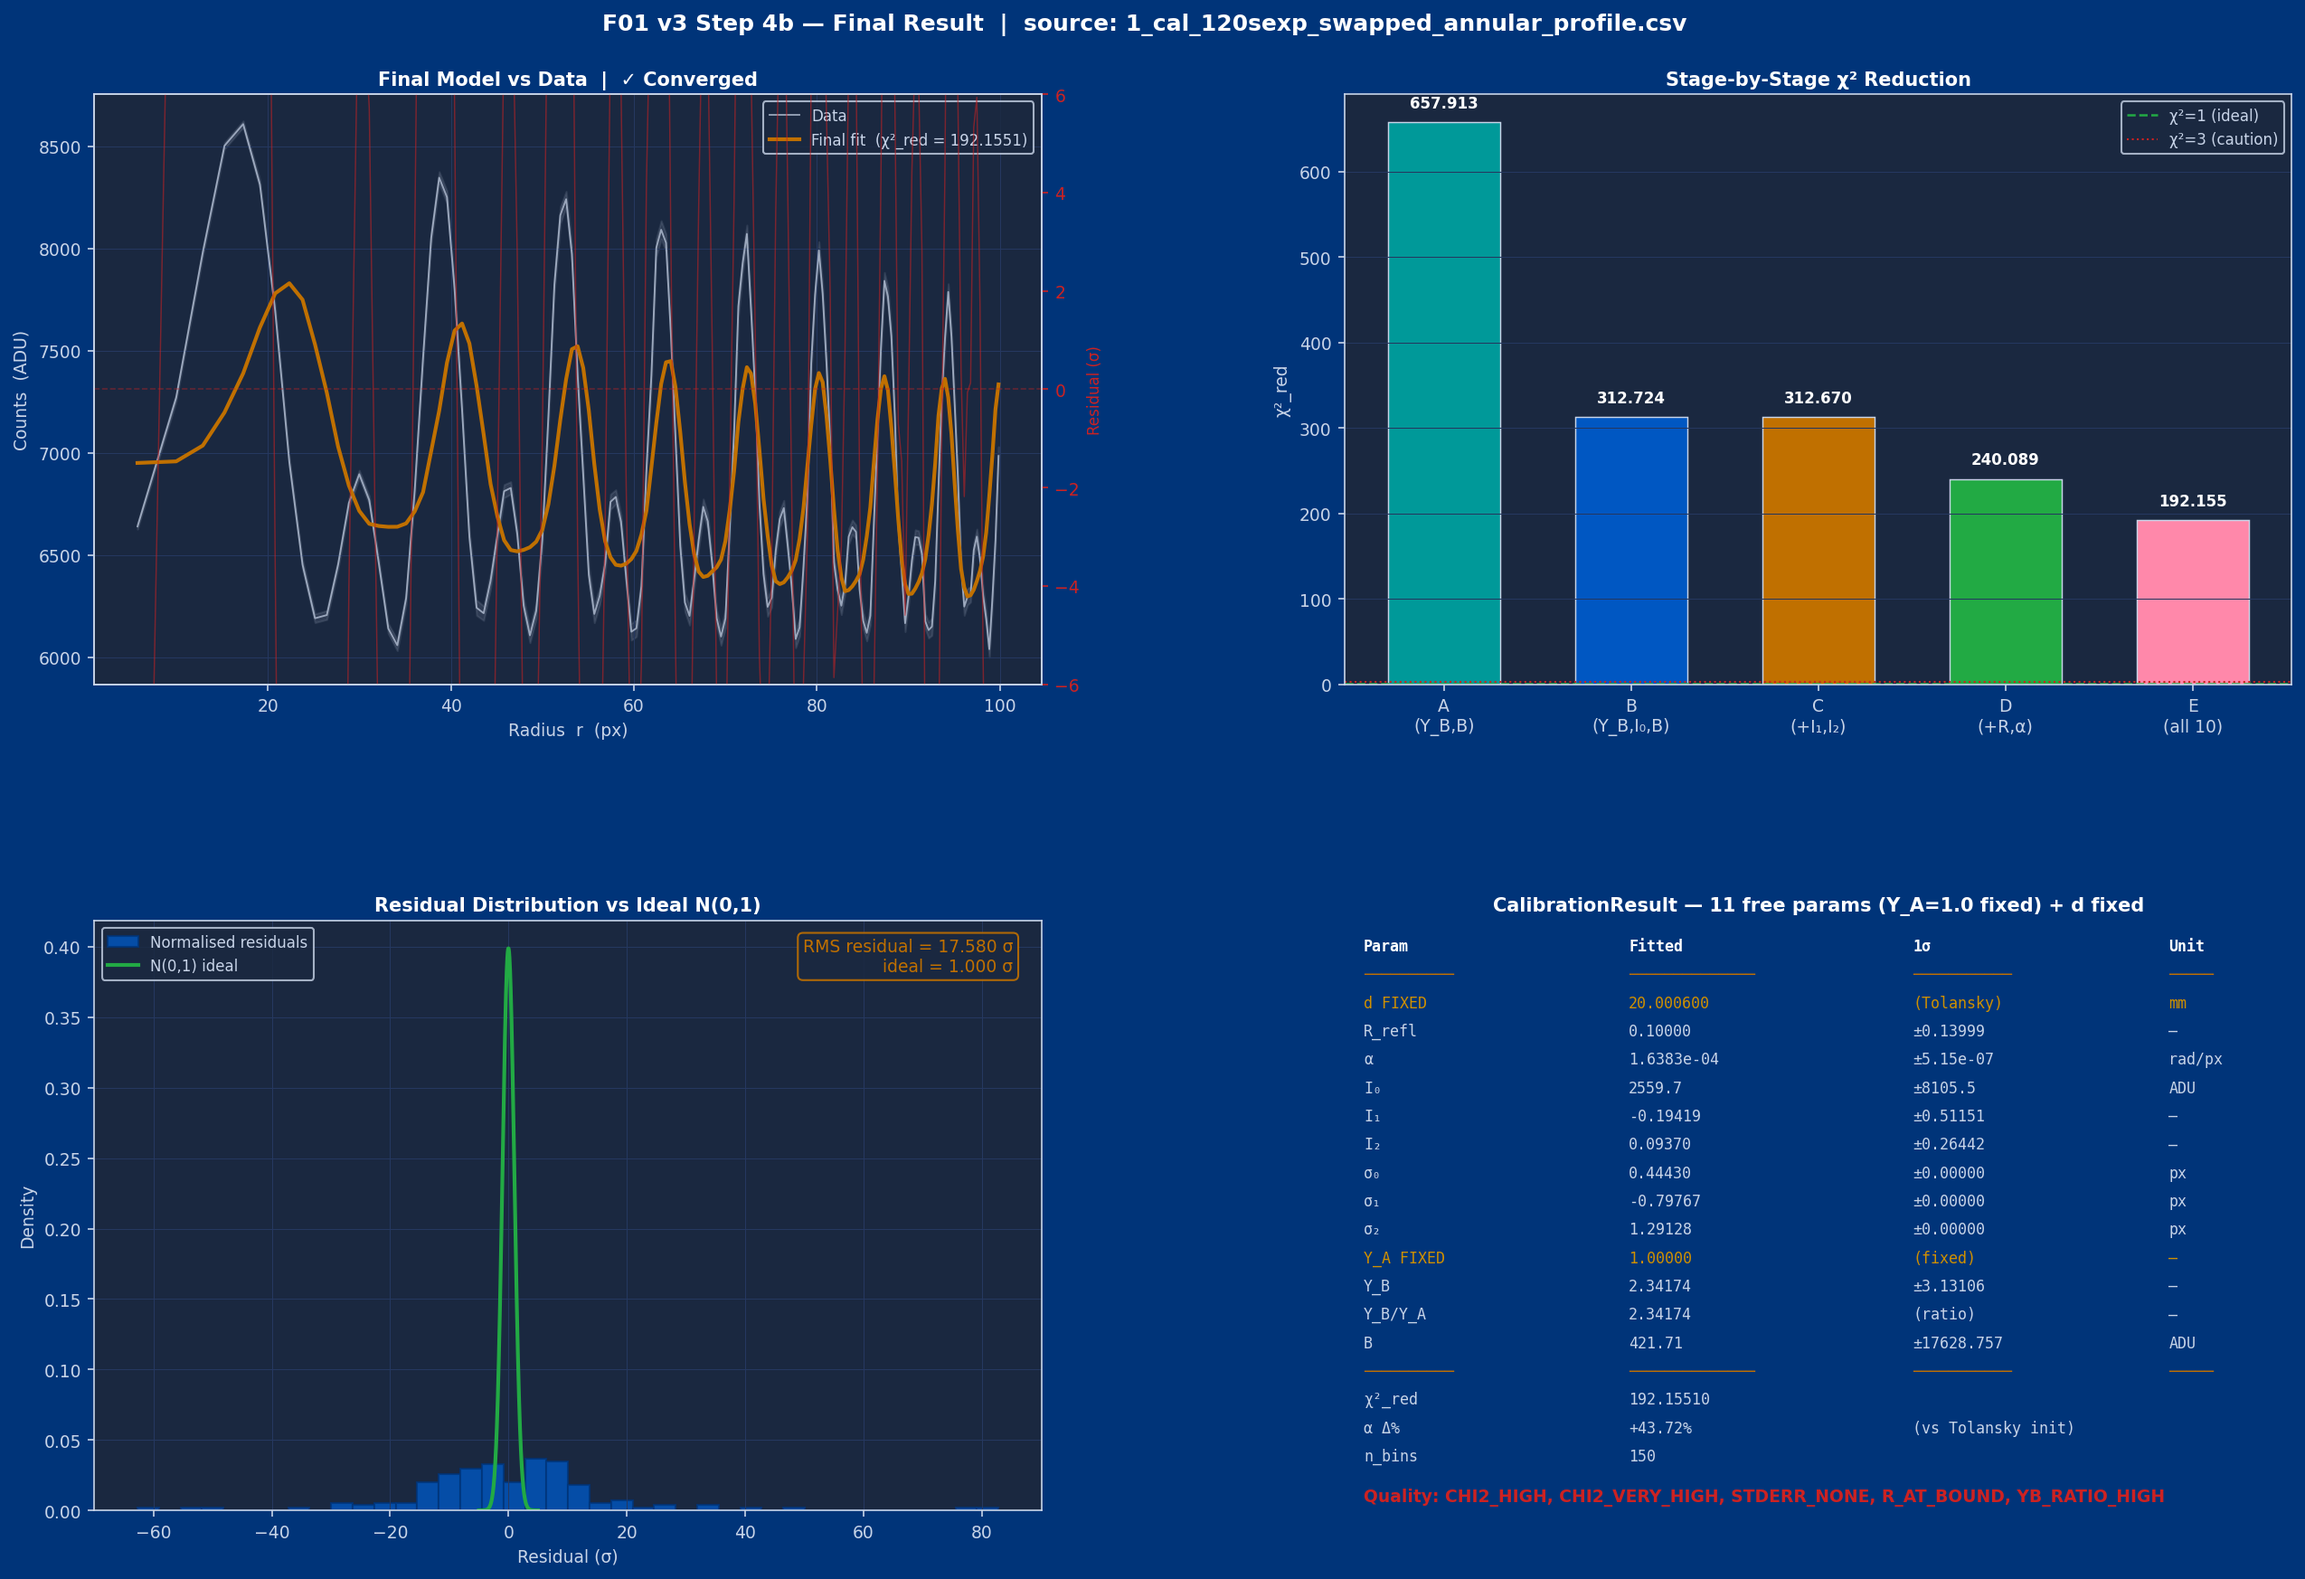
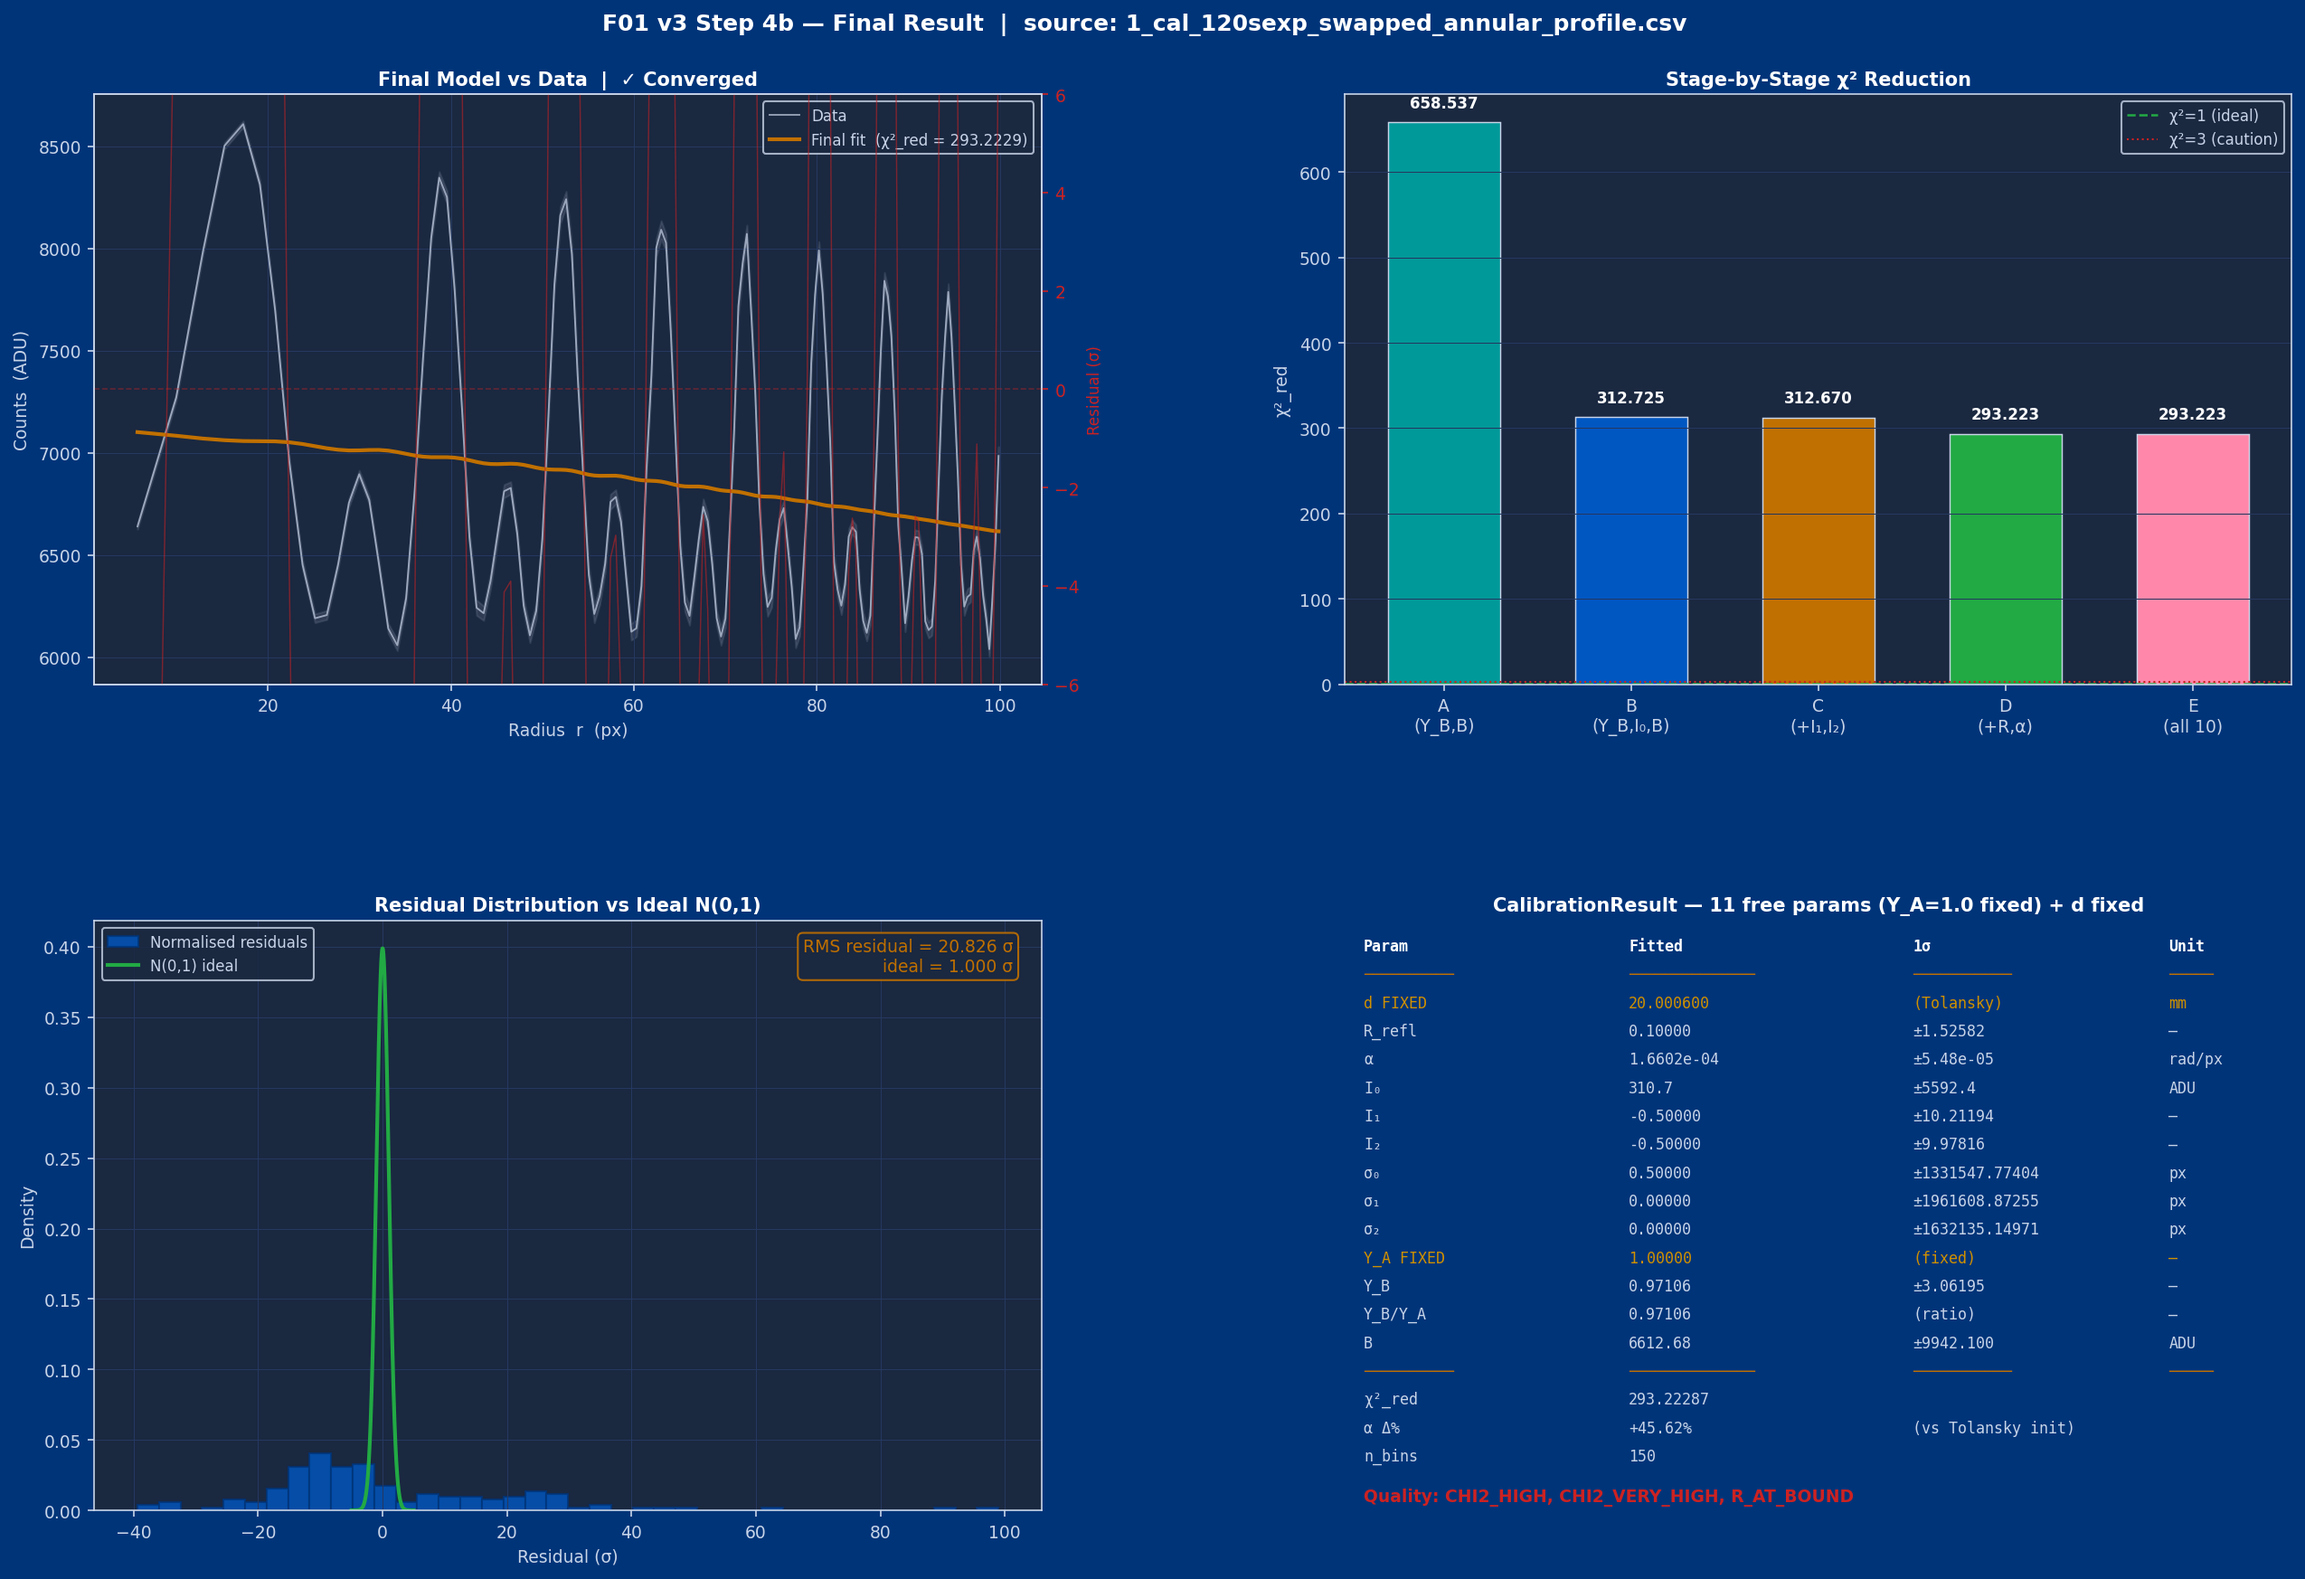
more struggles with validating f01

diff --git a/src/fpi/m03_annular_reduction_2026_04_06.py b/src/fpi/m03_annular_reduction_2026_04_06.py
@@ -146,6 +146,7 @@ class PeakFit:
     r_fit_px:       float  # Gaussian centroid (px); falls back to r_raw if failed
     sigma_r_fit_px: float  # 1σ uncertainty on centroid (px); nan if failed
     amplitude_adu:  float  # Gaussian amplitude above background (ADU)
+    baseline_adu:   float  # Gaussian baseline (B parameter, ADU)
     width_px:       float  # Gaussian sigma (px); nan if failed
     fit_ok:         bool
 
@@ -200,6 +201,11 @@ class FringeProfile:
 def _gaussian(x, A, mu, sigma, B):
     """Gaussian + constant background: A*exp(-(x-mu)²/(2σ²)) + B."""
     return A * np.exp(-0.5 * ((x - mu) / sigma) ** 2) + B
+
+
+def _gaussian3(x, A, mu, sigma):
+    """Gaussian with no free background (baseline pre-subtracted)."""
+    return A * np.exp(-0.5 * ((x - mu) / sigma) ** 2)
 
 
 # ---------------------------------------------------------------------------
@@ -582,6 +588,7 @@ def _find_and_fit_peaks(
     profile: np.ndarray,
     sigma_profile: np.ndarray,
     masked: np.ndarray,
+    baseline: float,
     distance: int       = 5,
     prominence: float   = 100.0,
     fit_half_window: int = 8,
@@ -659,6 +666,7 @@ def _find_and_fit_peaks(
                 r_fit_px       = r_raw,
                 sigma_r_fit_px = float("nan"),
                 amplitude_adu  = prof_raw,
+                baseline_adu   = float("nan"),
                 width_px       = float("nan"),
                 fit_ok         = False,
             ))
@@ -668,10 +676,11 @@ def _find_and_fit_peaks(
         wp = win_prof[win_good]
         ws = win_sigma[win_good]
 
-        # Background = 20th percentile of window (not minimum)
-        B0  = float(np.percentile(wp, 20))
-        A0  = float(prof_raw) - B0
-        sig0 = max(median_dr_px, 0.3 * median_dr_px) if median_dr_px > 0 else 1.0
+        B_fixed = baseline
+        wp_corr = wp - B_fixed
+
+        A0      = max(float(prof_raw) - B_fixed, 1.0)
+        sig0    = median_dr_px if median_dr_px > 0 else 1.0
         sig_low = 0.3 * median_dr_px if median_dr_px > 0 else 0.1
 
         # Safe sigma weights (avoid division by zero)
@@ -679,29 +688,31 @@ def _find_and_fit_peaks(
 
         try:
             popt, pcov = curve_fit(
-                _gaussian,
-                wr, wp,
-                p0=[max(A0, 1.0), r_raw, sig0, B0],
+                _gaussian3,
+                wr, wp_corr,
+                p0=[A0, r_raw, sig0],
                 sigma=ws_safe,
                 absolute_sigma=True,
                 bounds=(
-                    [0.0,        float(wr[0]),  sig_low, -np.inf],
-                    [np.inf,     float(wr[-1]), np.inf,   np.inf],
+                    [0.0,     float(wr[0]),  sig_low],
+                    [np.inf,  float(wr[-1]), np.inf ],
                 ),
                 maxfev=2000,
             )
-            perr           = np.sqrt(np.diag(pcov))
-            r_fit          = float(popt[1])
-            sigma_r_fit    = float(perr[1])
-            amplitude      = float(popt[0])
-            width          = float(popt[2])
-            fit_ok         = True
+            perr        = np.sqrt(np.diag(pcov))
+            r_fit       = float(popt[1])
+            sigma_r_fit = float(perr[1])
+            amplitude   = float(popt[0])
+            baseline    = B_fixed
+            width       = float(popt[2])
+            fit_ok      = True
         except Exception:
-            r_fit          = r_raw
-            sigma_r_fit    = float("nan")
-            amplitude      = max(A0, 0.0)
-            width          = float("nan")
-            fit_ok         = False
+            r_fit       = r_raw
+            sigma_r_fit = float("nan")
+            amplitude   = A0
+            baseline    = B_fixed
+            width       = float("nan")
+            fit_ok      = False
 
         results.append(PeakFit(
             peak_idx       = int(peak_orig),
@@ -710,6 +721,7 @@ def _find_and_fit_peaks(
             r_fit_px       = r_fit,
             sigma_r_fit_px = sigma_r_fit,
             amplitude_adu  = amplitude,
+            baseline_adu   = baseline,
             width_px       = width,
             fit_ok         = fit_ok,
         ))
@@ -841,9 +853,15 @@ def annular_reduce(
     n_sparse    = int(np.sum(n_pixels_out < min_pixels_per_bin))
     sparse_bins = n_sparse > 0.1 * n_bins
 
+    # Global baseline: mean of the 20 lowest good-bin profile values.
+    good_vals = profile_out[~masked_out & np.isfinite(profile_out)]
+    n_base    = min(20, len(good_vals))
+    baseline  = float(np.mean(np.sort(good_vals)[:n_base])) if n_base > 0 else 0.0
+
     # Peak finding on completed profile
     peak_fits = _find_and_fit_peaks(
         r_grid, profile_out, sigma_out, masked_out,
+        baseline        = baseline,
         distance        = peak_distance,
         prominence      = peak_prominence,
         fit_half_window = peak_fit_half_window,

diff --git a/validation/z01_analyze_cal_dark_pair_2026_04_22.py b/validation/z01_analyze_cal_dark_pair_2026_04_22.py
@@ -12,8 +12,8 @@ Changes 2026-04-22:
     The raw slope (orders/px²) is kept on the figure for traceability
     but the CSV header now carries alpha_rpx in the correct units.
   - Y_B intensity ratio added: computed as median(amp_638) / median(amp_640)
-    from the Gaussian-fit amplitudes in the peak table (excluding the
-    first 640 nm peak which is unreliable due to the r→0 singularity).
+    from the Gaussian-fit amplitudes in the peak table (all peaks included;
+    peak 1 amplitude is reliable with the global fixed-baseline fit).
     Written to the CSV header and printed to terminal.
   - Both alpha_rpx and Y_B are written to the CSV header so F01 step4b
     can read them directly without re-deriving from scratch.
@@ -376,7 +376,7 @@ NE_LINES = {1: 640.2248, 0: 638.2991}   # keyed by (peak_number - 1) % 2
 col_labels = [
     "#", "Line [nm]", "r_fit [px]", "2σ_r [px]",
     "r²_fit [px²]", "Δ_640 [px²]", "Δ_638 [px²]",
-    "2σ_r² [px²]", "Amp [ADU]", "Width [px]",
+    "2σ_r² [px²]", "Amp [ADU]", "Baseline [ADU]", "Width [px]",
 ]
 
 # Pre-compute r²_fit for every peak so delta look-ahead is simple
@@ -412,9 +412,10 @@ for i, pk in enumerate(fp.peak_fits):
         d638_val = float("nan")
         d638_str = "—"
 
-    two_sr_str  = f"{two_sr:.3f}"  if np.isfinite(two_sr)  else "—"
-    two_sr2_str = f"{two_sr2:.2f}" if np.isfinite(two_sr2) else "—"
-    width_str   = f"{pk.width_px:.3f}" if np.isfinite(pk.width_px) else "—"
+    two_sr_str   = f"{two_sr:.3f}"  if np.isfinite(two_sr)  else "—"
+    two_sr2_str  = f"{two_sr2:.2f}" if np.isfinite(two_sr2) else "—"
+    width_str    = f"{pk.width_px:.3f}"    if np.isfinite(pk.width_px)    else "—"
+    base_str     = f"{pk.baseline_adu:.1f}" if np.isfinite(pk.baseline_adu) else "—"
 
     d640_vals.append(d640_val)
     d638_vals.append(d638_val)
@@ -428,6 +429,7 @@ for i, pk in enumerate(fp.peak_fits):
         d638_str,
         two_sr2_str,
         f"{pk.amplitude_adu:.1f}",
+        base_str,
         width_str,
     ])
 
@@ -439,23 +441,20 @@ mean_row = [
     "",
     f"{mean_640:.2f}" if np.isfinite(mean_640) else "—",
     f"{mean_638:.2f}" if np.isfinite(mean_638) else "—",
-    "", "", "",
+    "", "", "", "",
 ]
 cell_text.append(mean_row)
 
 # ── Y_B intensity ratio from Gaussian-fit amplitudes ─────────────────────────
-# Separate peak amplitudes by family.
-# Skip peak 1 (640 nm) — its Gaussian amplitude is unreliable because the
-# profile rises sharply from r=0 and the fit baseline is ill-defined there.
-amp_640_list = []   # amplitudes of 640 nm peaks (odd peak numbers, skip #1)
+amp_640_list = []   # amplitudes of 640 nm peaks (odd peak numbers)
 amp_638_list = []   # amplitudes of 638 nm peaks (even peak numbers)
 for i, pk in enumerate(fp.peak_fits):
     peak_num = i + 1
     if not pk.fit_ok or not np.isfinite(pk.amplitude_adu):
         continue
-    if peak_num % 2 == 1 and peak_num > 1:   # odd, skip first
+    if peak_num % 2 == 1:   # odd → 640 nm
         amp_640_list.append(pk.amplitude_adu)
-    elif peak_num % 2 == 0:                   # even
+    else:                    # even → 638 nm
         amp_638_list.append(pk.amplitude_adu)
 
 if amp_640_list and amp_638_list:
@@ -468,7 +467,7 @@ else:
     Y_B_estimate   = float("nan")
 
 print(f"\nIntensity ratio (Y_B = 638nm / 640nm amplitudes):")
-print(f"  median amp 640nm = {median_amp_640:.1f} ADU  (n={len(amp_640_list)}, peak 1 excluded)")
+print(f"  median amp 640nm = {median_amp_640:.1f} ADU  (n={len(amp_640_list)})")
 print(f"  median amp 638nm = {median_amp_638:.1f} ADU  (n={len(amp_638_list)})")
 print(f"  Y_B = {Y_B_estimate:.4f}")
 
@@ -760,7 +759,7 @@ with open(csv_path, "w", newline="") as _fh:
     _fh.write(f"# epsilon_640: {ep_640:.6f}\n")
     _fh.write(f"# epsilon_638: {ep_638:.6f}\n")
     _fh.write(f"# Y_B: {Y_B_estimate:.6f}\n")
-    _fh.write(f"# Y_B_note: median(amp_638)/median(amp_640), peak_1_excluded\n")
+    _fh.write(f"# Y_B_note: median(amp_638)/median(amp_640), all peaks included\n")
     _fh.write(f"# slope_orders_per_px2: {alpha_mean:.6f}\n")
     _fh.write(f"# cx: {cx_fine:.4f}\n")
     _fh.write(f"# cy: {cy_fine:.4f}\n")
